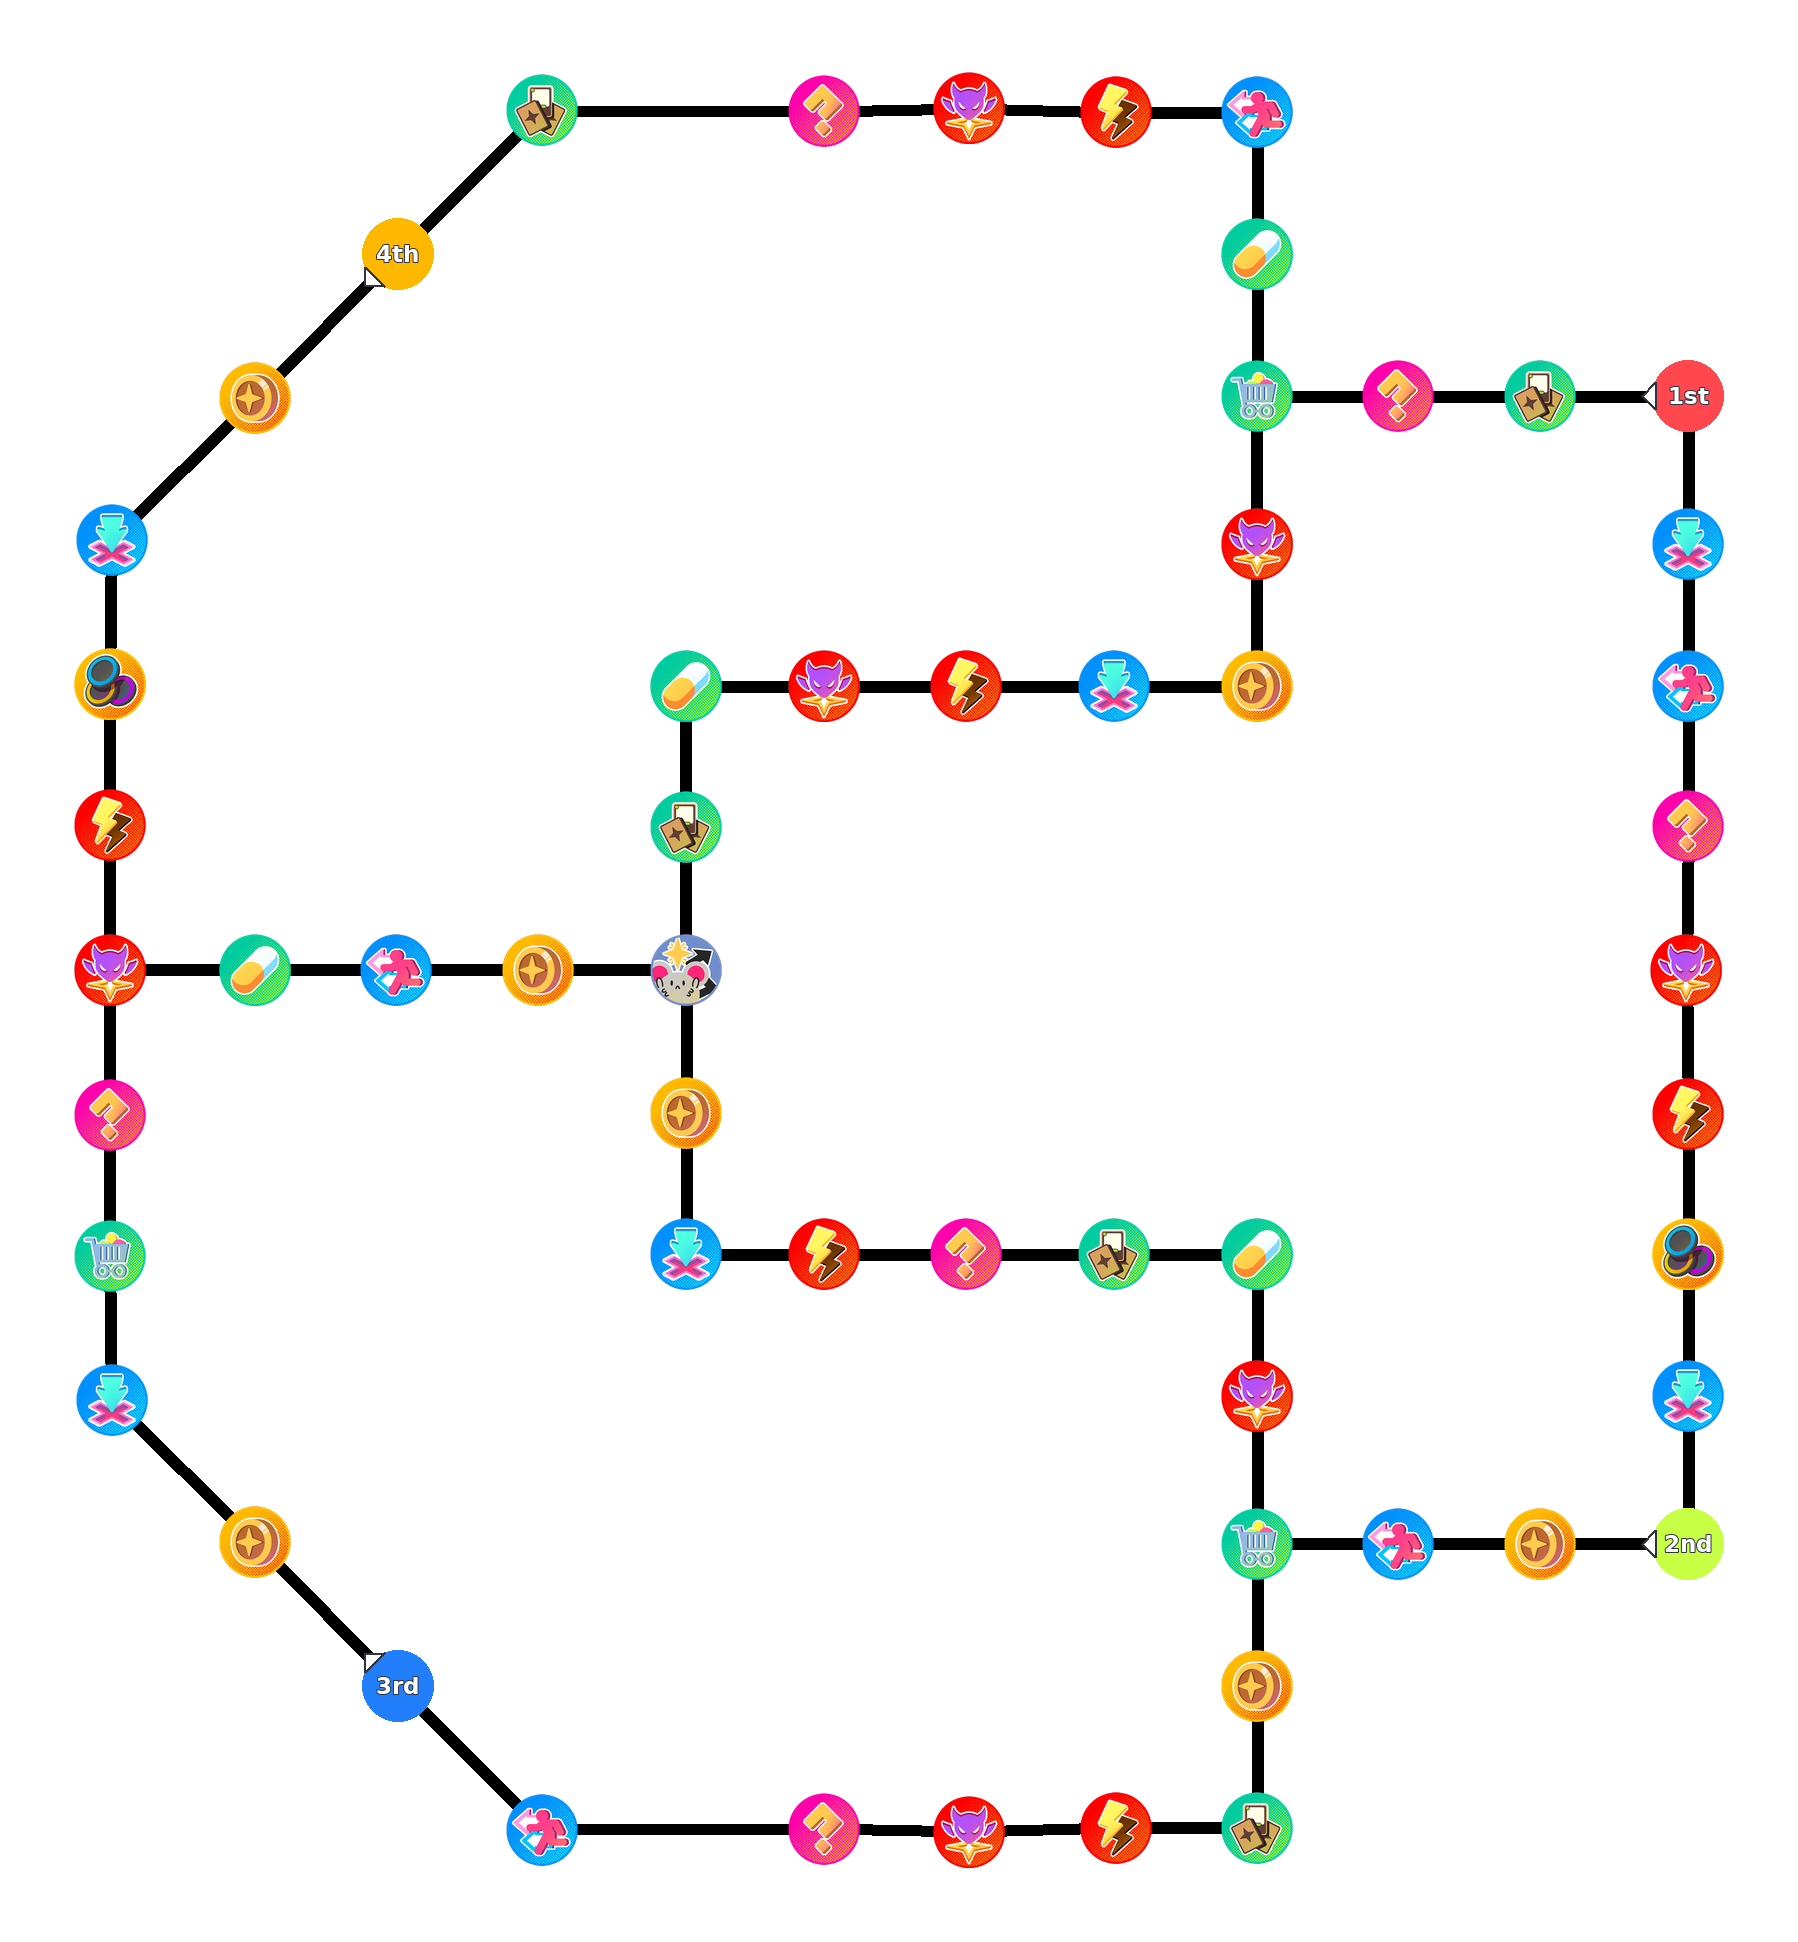
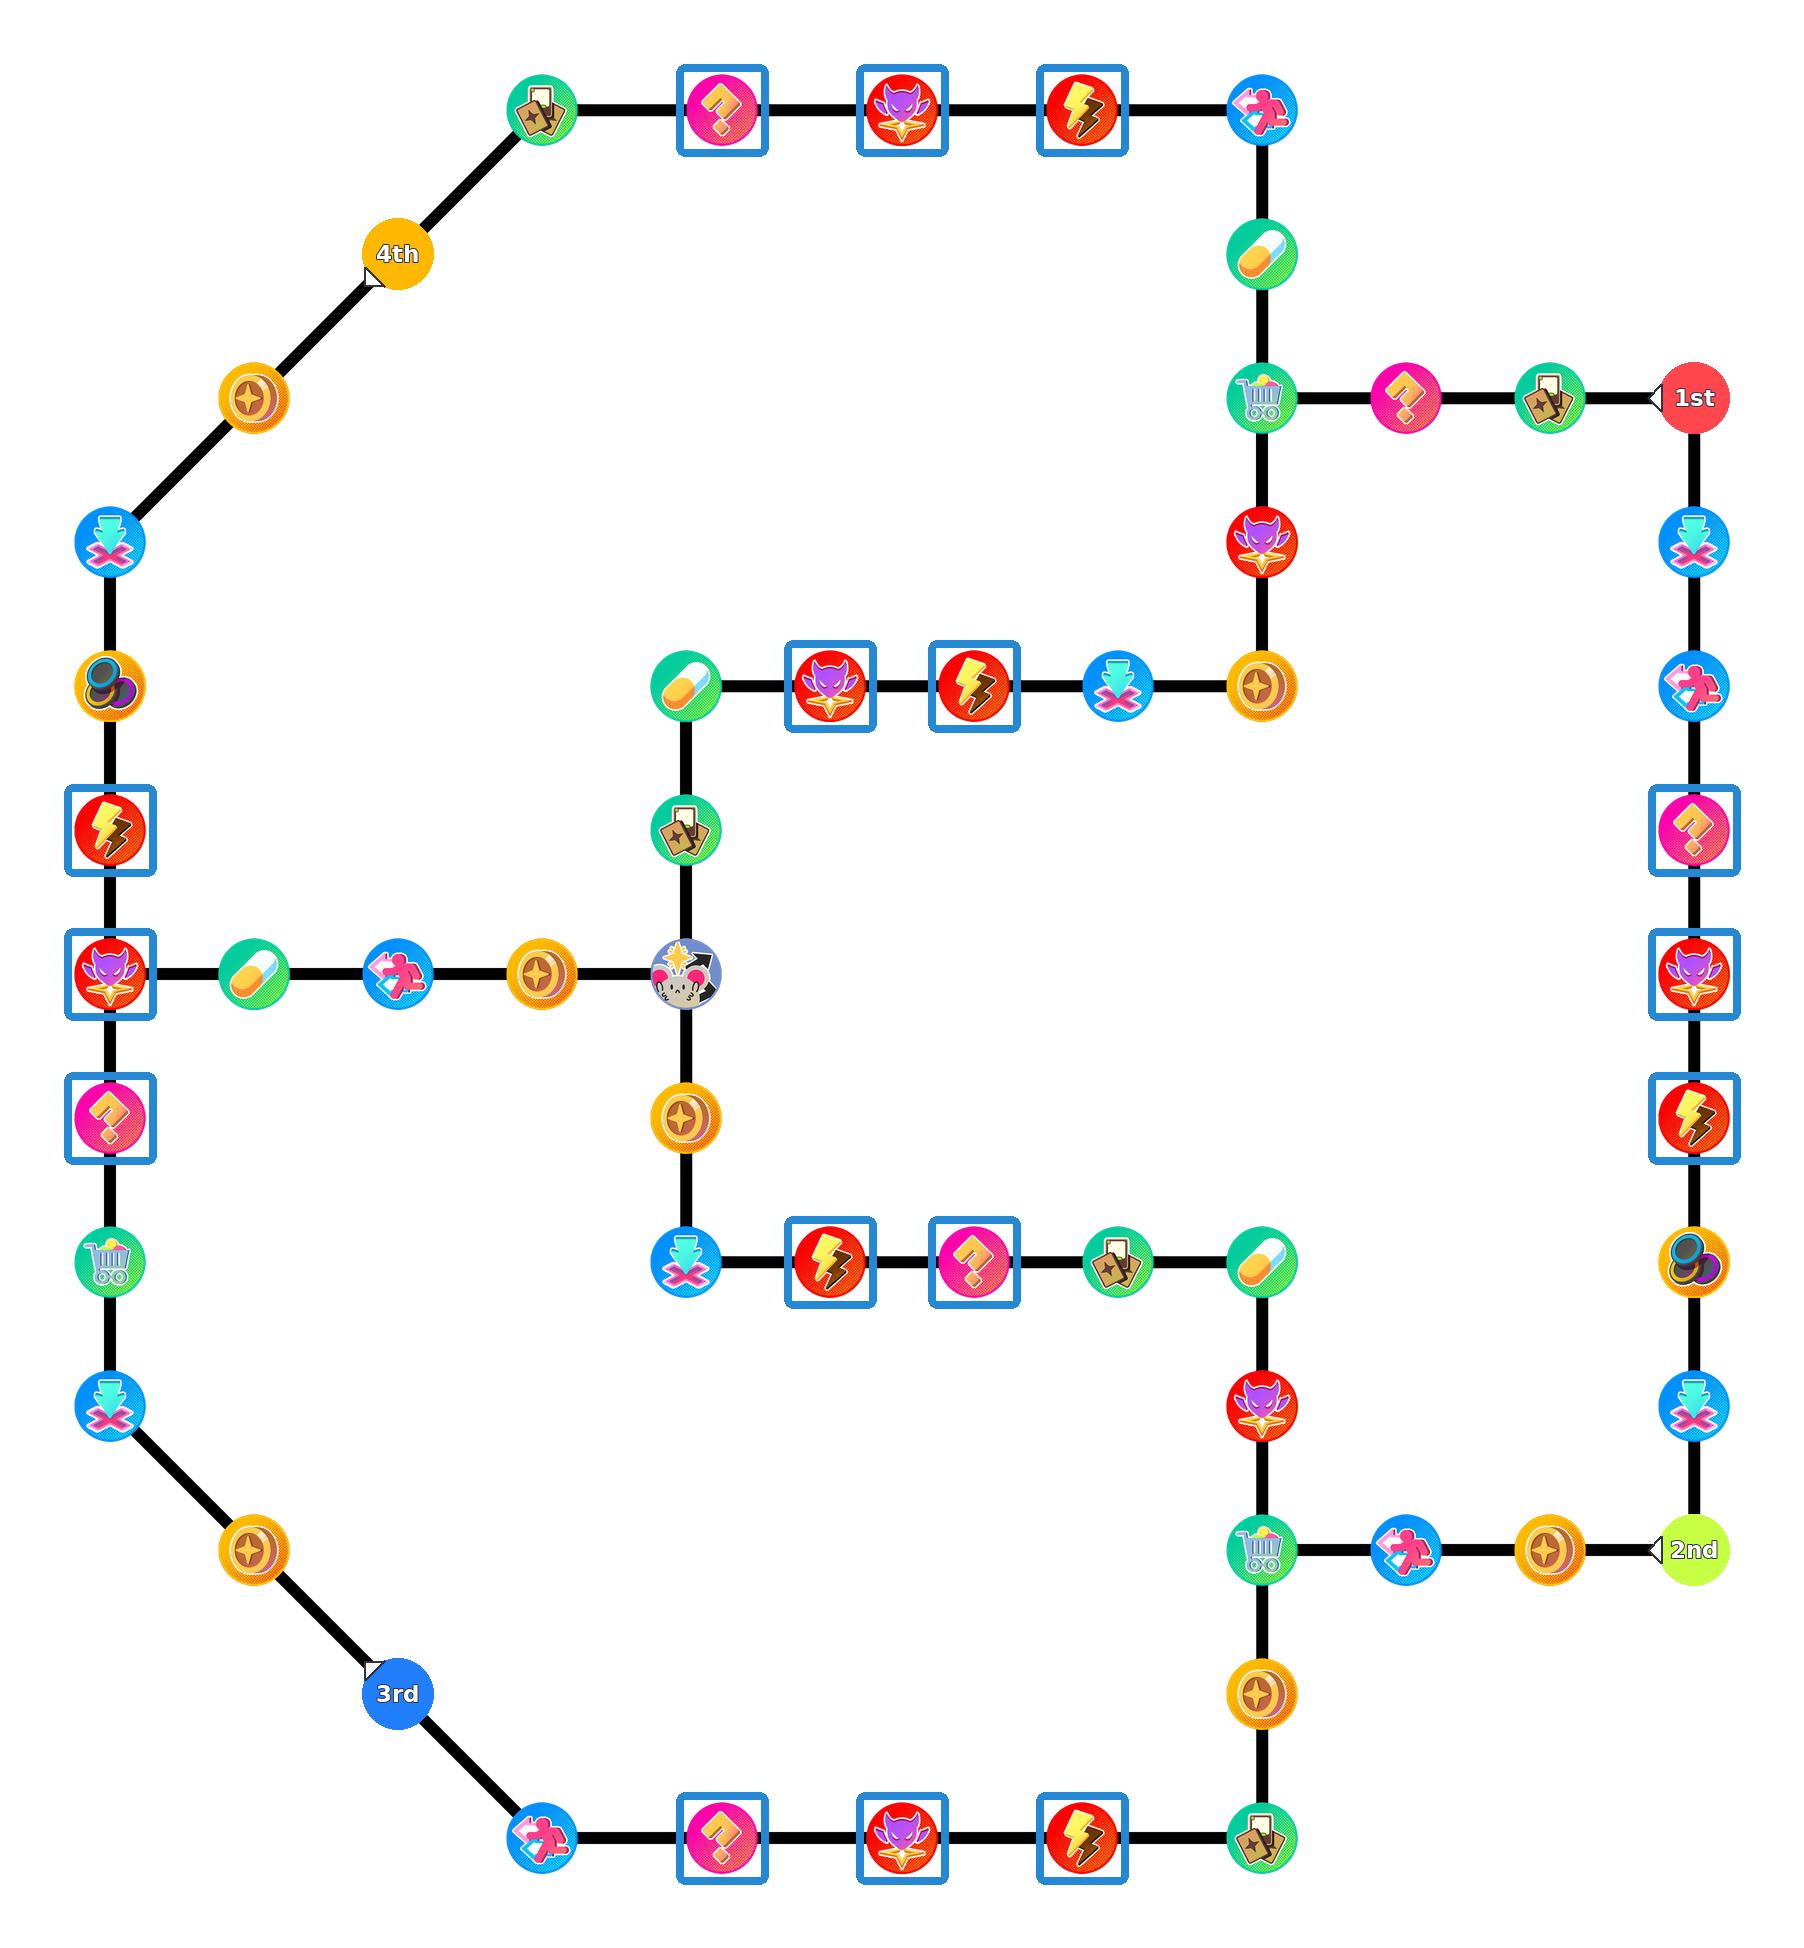
Use approved Autumn Forest map images under canonical filenames

diff --git a/docs/development-handoff.md b/docs/development-handoff.md
@@ -186,3 +186,9 @@ Last updated: 2026-10-12 (Japan)
 - 新しいイベント図は緑枠のみ＋名前入りの2種類。モンスター画像は利用者が貼る。進捗イベントは全難易度共通と追加確認済み、終了進捗は普通18・困難18・悪夢17・狂気17。今回のアップロードは制作資料の保存で、アプリのイベントCSV・フォールバックは更新しない。
 - 縦長2240×3329pxを2枚、横長2560×1440pxを1枚。パッシブ内のキーワード直前に文字サイズのアイコンを置き、みなぎる元気は紫 #7546A6、ガオーの注目は青 #246B9B。説明見出しも同色。
 - 納品PNG22枚（まとめ12＋基本/イベント10）の寸法・チェックサム、14出現位置の対応、56マス58接続・上下対称性、最終差分を確認済み。既存マップ出力テスト9件成功。アプリJS・正本CSVは今回変更しない。
+
+## 秋幻の森の最終マップ画像差し替え（2026-10-16）
+
+- 利用者が提供した基本図1枚とイベント図4枚を、CSVが参照する既存名へリネームして差し替え。`images/Map/Layout_Autumn_Forest.png` と `images/MapEvent/Autumn_Normal_{01,03,07,10}.png`。5枚とも原寸1804×1948px、受領したPNGのバイトを維持する。
+- 基本図の建物設置枠、利用者が配置したモンスター画像をそのまま使用。`production/` の基本図・調整済みイベント図と縦長8枚／横長4枚を同期し、受領名と正規名の対応・SHA-256を記録。
+- CSV・アプリJS・モンスターの能力値・画像は変更しない。旧生成スクリプトは過去資料であり、今回の調整図を上書きしないこと。

diff --git a/docs/map-event-output/autumn-forest/README.md b/docs/map-event-output/autumn-forest/README.md
@@ -6,6 +6,10 @@
 
 利用者調整図により進捗3のボスはO05、進捗7の恐竜はO24、進捗10の左上のクマはO28へ訂正。最新図は1804×1948px、対称軸y=974。旧 `topology.json`・`event-icon-layout.json`・`scripts/render-autumn-map.py` は以下の初期取り込みの記録で、最新版の制作にそのまま使用しない。最新座標は `production/data/topology.json`、最新対応表は `production/event_spawn_locations.csv`。
 
+## 2026-10-16の利用者調整図への差し替え
+
+ツール参照先 `images/Map/Layout_Autumn_Forest.png` と `images/MapEvent/Autumn_Normal_{01,03,07,10}.png` を利用者提供の最終PNGへ差し替えた。ファイル名は既存CSVの参照名を維持し、画像のピクセル・透過情報は変更しない。基本図には利用者の青い建物設置枠を含む。`production/Autumn_Map_Buildings.png` と `production/approved-event-maps/`、縦横のまとめ12枚も同期。元ファイル名とSHA-256は `production/replacement-assets-20261016.json`。CSVの列・難易度・進捗・能力値は今回変更しない。
+
 ## 初期取り込みの記録（制作方針・図の仕様は上記で更新済み）
 
 ユーザー提供の通常プレイ動画2本、ミニマップ、マス素材、`261015.zip` の32画像を根拠とする。

diff --git a/docs/map-event-output/autumn-forest/production-guide.md b/docs/map-event-output/autumn-forest/production-guide.md
@@ -133,3 +133,7 @@
 - `event_label_layout.json`：確認用ラベルの配置座標。
 - `data/topology.json`：マスと接続の座標データ。
 - `data/monster_stats.csv`／`data/monster_skills.csv`：今回使った5種類のモンスターの参照データ。最新GitHubと照合してから使用する。
+
+## 2026-10-16の画像差し替え
+
+利用者提供の基本図とイベント図4枚を既存の正規名へリネームして使用する。ツールの参照先は `images/Map/Layout_Autumn_Forest.png` と `images/MapEvent/Autumn_Normal_{01,03,07,10}.png`。これらをまとめ画像の制作でも使用し、以前の素材から描き直さない。受領名・参照先・SHA-256の対応は `production/replacement-assets-20261016.json`、調整済みイベント図の控えは `production/approved-event-maps/` に保存する。Frames／Namesは画像を貼る前の作業用なので、完成したまとめ画像に差し戻さない。
